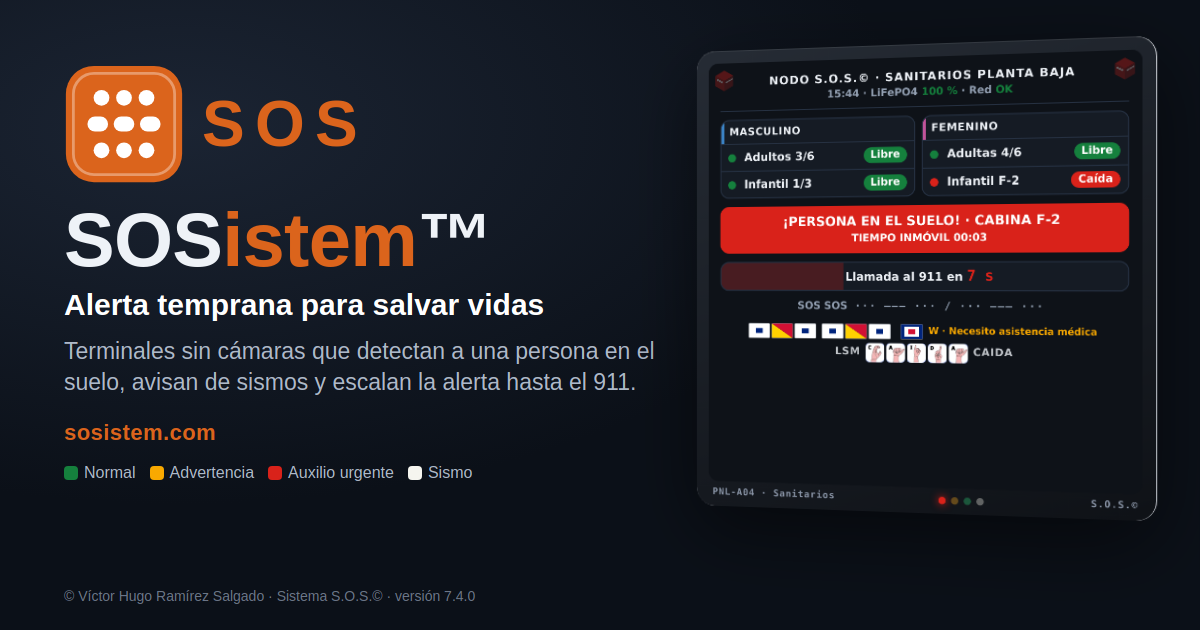
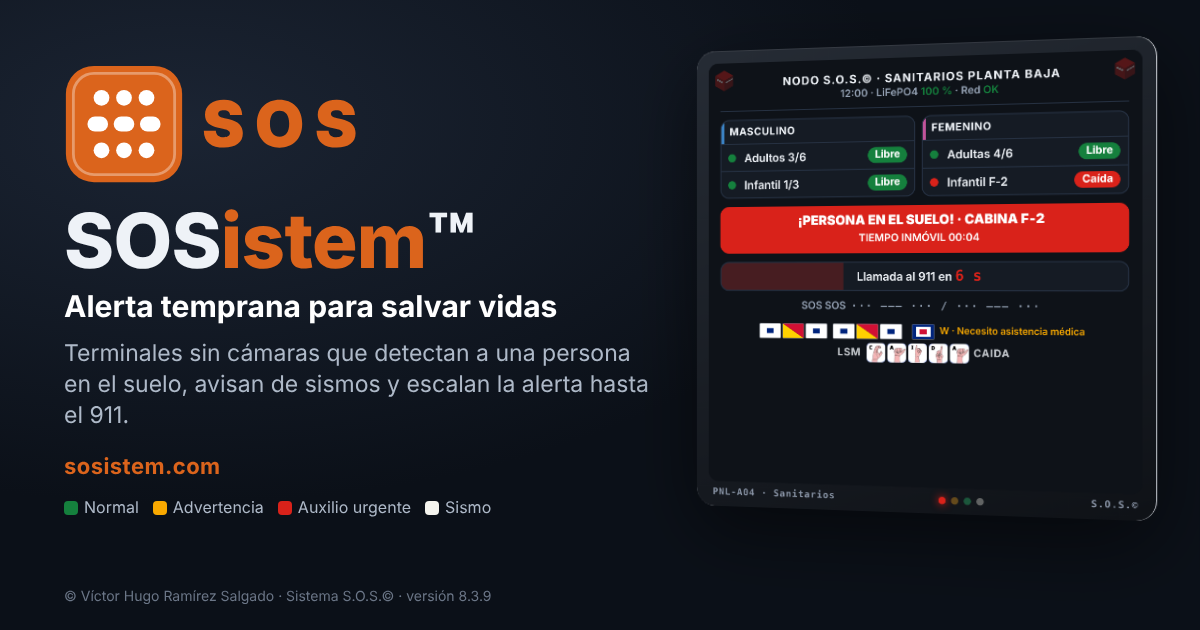
Imagen para compartir: la captura de la terminal NODO S.O.S. se toma de la página de consulta (corrige el flujo «Imagen para compartir y manual»)
Asistencia-IA

diff --git a/index.html b/index.html
@@ -14,7 +14,7 @@
 <link rel="canonical" href="https://sosistem.com/">
 <link rel="icon" href="assets/icono.svg" type="image/svg+xml">
 <link rel="apple-touch-icon" href="assets/icono-180.png">
-<meta property="og:image" content="https://sosistem.com/assets/og-sosistem.png?v=7.4.0">
+<meta property="og:image" content="https://sosistem.com/assets/og-sosistem.png?v=8.3.9">
 <meta property="og:image:width" content="1200">
 <meta property="og:image:height" content="630">
 <meta property="og:locale" content="es_MX">
